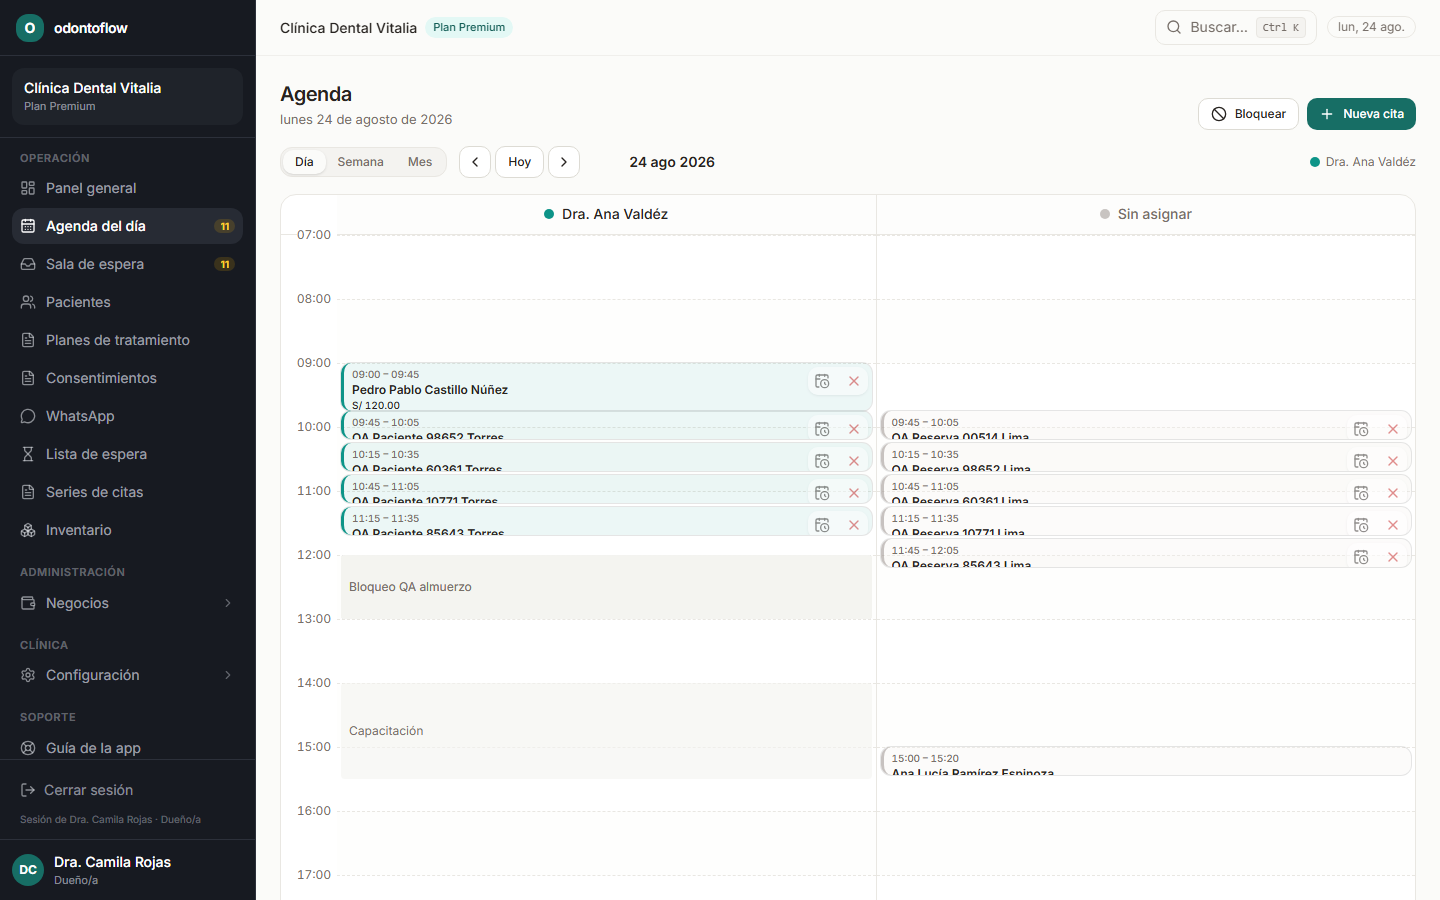
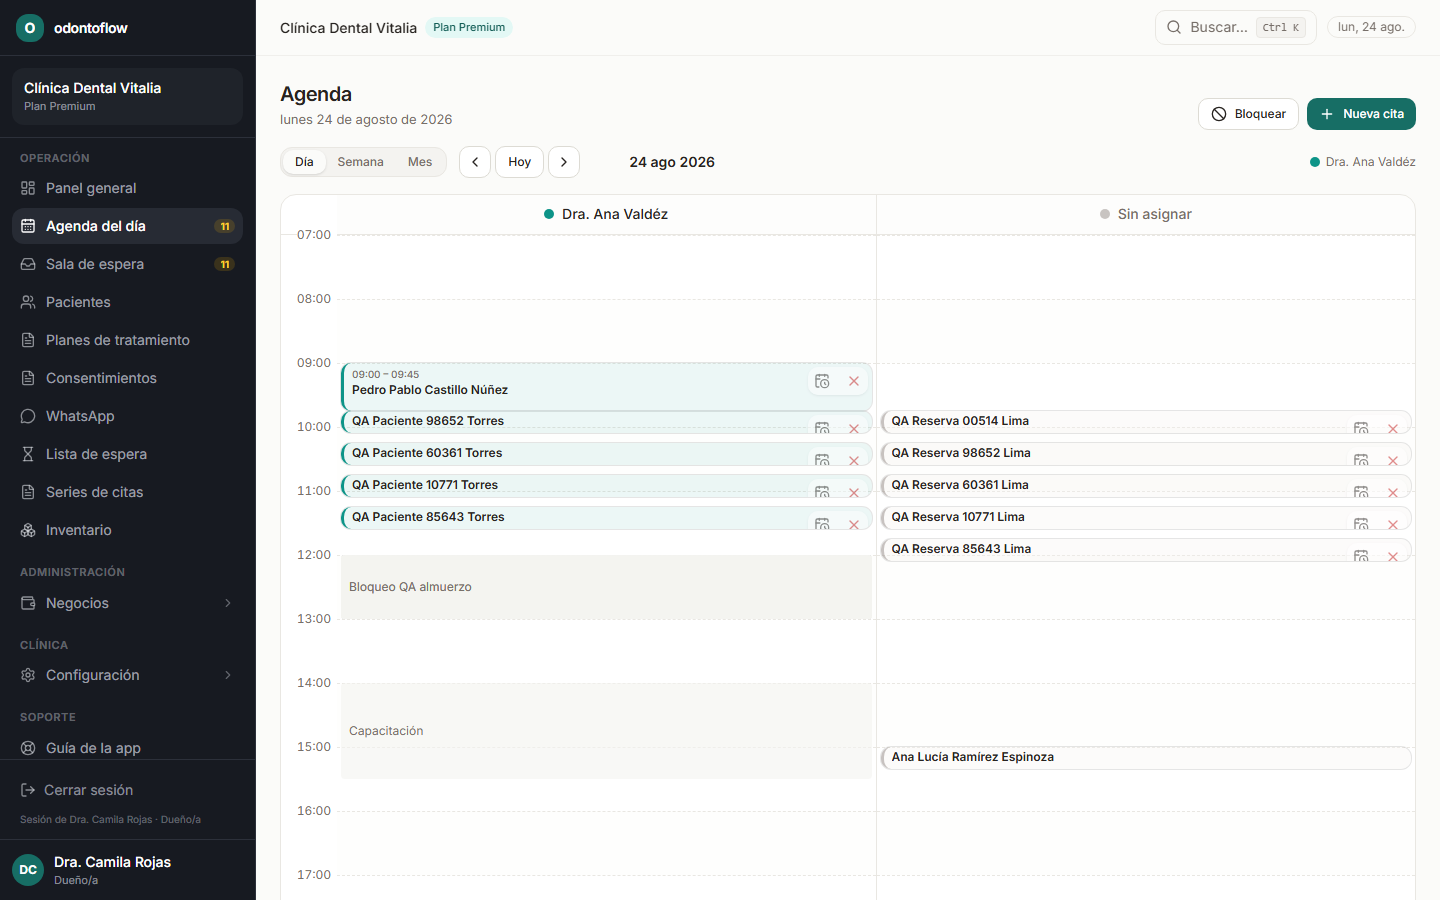
agenda dia: nombres recortados/tapados en citas cortas encadenadas (solo se veia el dia con citas de 20 min seguidas): el bloque medía min 28px pero el contenido hora+nombre pide ~37px y overflow-hidden recortaba el nombre, y la cita siguiente (pitch de ~21px) lo tapaba; ahora el alto minimo es 22px

Changed region(s): [[0.5938, 0.4667, 0.7188, 0.6533], [0.2188, 0.4356, 0.3438, 0.6222], [0.5938, 0.84, 0.75, 0.8711]]

diff --git a/apps/web/src/app/consola/agenda/vista-dia.tsx b/apps/web/src/app/consola/agenda/vista-dia.tsx
@@ -90,7 +90,9 @@ function layoutCitas(citas: Cita[]): { pos: Map<string, Posicion>; mas: MasInfo[
       const ancho = 100 / n;
       pos.set(c.id, {
         top: ((ini - INI_MS) / 60) * HORA_PX,
-        height: Math.max(((fin - ini) / 60) * HORA_PX, 28),
+        // 22px mínimos: una cita de 20 min mide ~21px de alto; con 28 los
+        // bloques encadenados se tapaban entre sí y recortaban el nombre
+        height: Math.max(((fin - ini) / 60) * HORA_PX, 22),
         left: lane * ancho,
         ancho,
       });
@@ -136,13 +138,16 @@ function ChipCita({
 }) {
   const atenuada = cita.estado === "cancelada" || cita.estado === "no_show";
   const accionable = cita.estado === "solicitada" || cita.estado === "confirmada";
+  // Bloque corto (<38px no alcanza para hora+nombre): mostrar solo el nombre
+  const corta = pos.height < 38;
   return (
     <div
       draggable={arrastrable}
       onDragStart={arrastrable ? onDragStart : undefined}
       onDragEnd={arrastrable ? onDragEnd : undefined}
       className={cn(
-        "absolute z-20 overflow-hidden rounded-md border-l-[3px] px-2 py-1 transition-shadow hover:shadow-md ring-1 ring-black/10",
+        "absolute z-20 overflow-hidden rounded-md border-l-[3px] px-2 transition-shadow hover:shadow-md ring-1 ring-black/10",
+        corta ? "py-0.5" : "py-1",
         sinAsignar ? "border-l-muted-foreground/40 bg-muted/30" : "",
         atenuada && "opacity-45",
         arrastrable && "cursor-grab",
@@ -157,14 +162,18 @@ function ChipCita({
         borderLeftColor: sinAsignar ? undefined : color,
       }}
     >
-      <div className="text-[10px] font-medium tabular-nums text-muted-foreground">
-        {cita.horaIni.slice(0, 5)} – {cita.horaFin.slice(0, 5)}
+      {!corta ? (
+        <div className="text-[10px] font-medium tabular-nums text-muted-foreground">
+          {cita.horaIni.slice(0, 5)} – {cita.horaFin.slice(0, 5)}
+        </div>
+      ) : null}
+      <div className={cn("truncate text-xs font-semibold", accionable && "pr-7")}>
+        {cita.patientNombre}
       </div>
-      <div className="truncate text-xs font-semibold">{cita.patientNombre}</div>
-      {pos.height > 50 ? (
+      {pos.height > 66 ? (
         <div className="truncate text-[10px] text-muted-foreground">{cita.servicio}</div>
       ) : null}
-      {pos.height > 40 ? (
+      {pos.height > 52 ? (
         <div className="text-[10px] font-medium tabular-nums">{fmtPEN(Number(cita.servicioPrecio))}</div>
       ) : null}
       {accionable ? (
